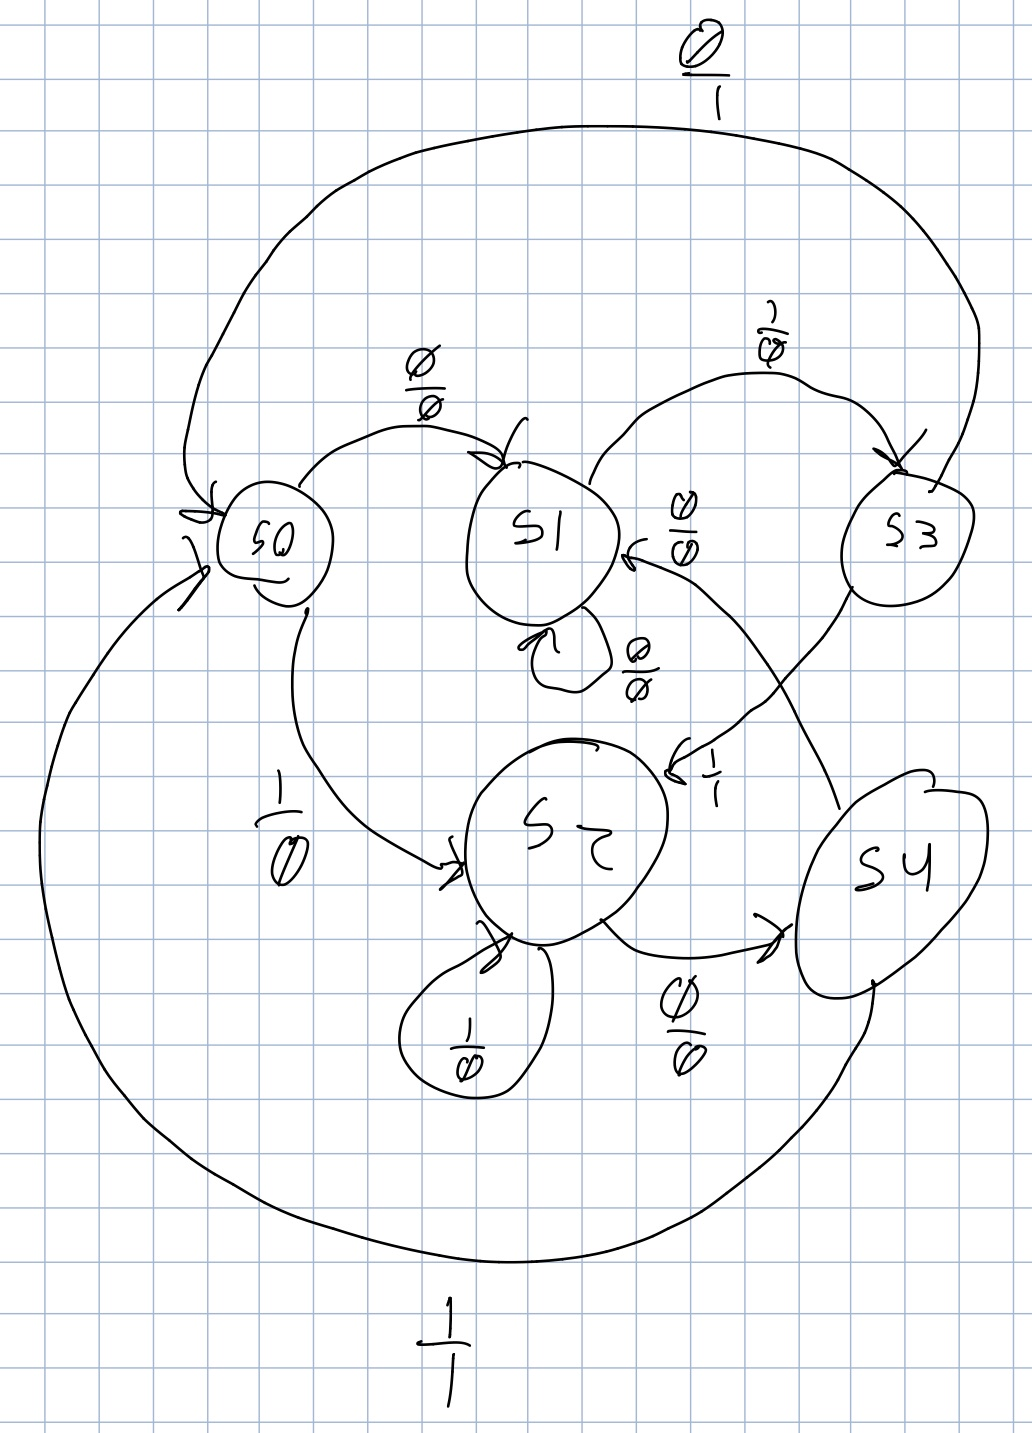
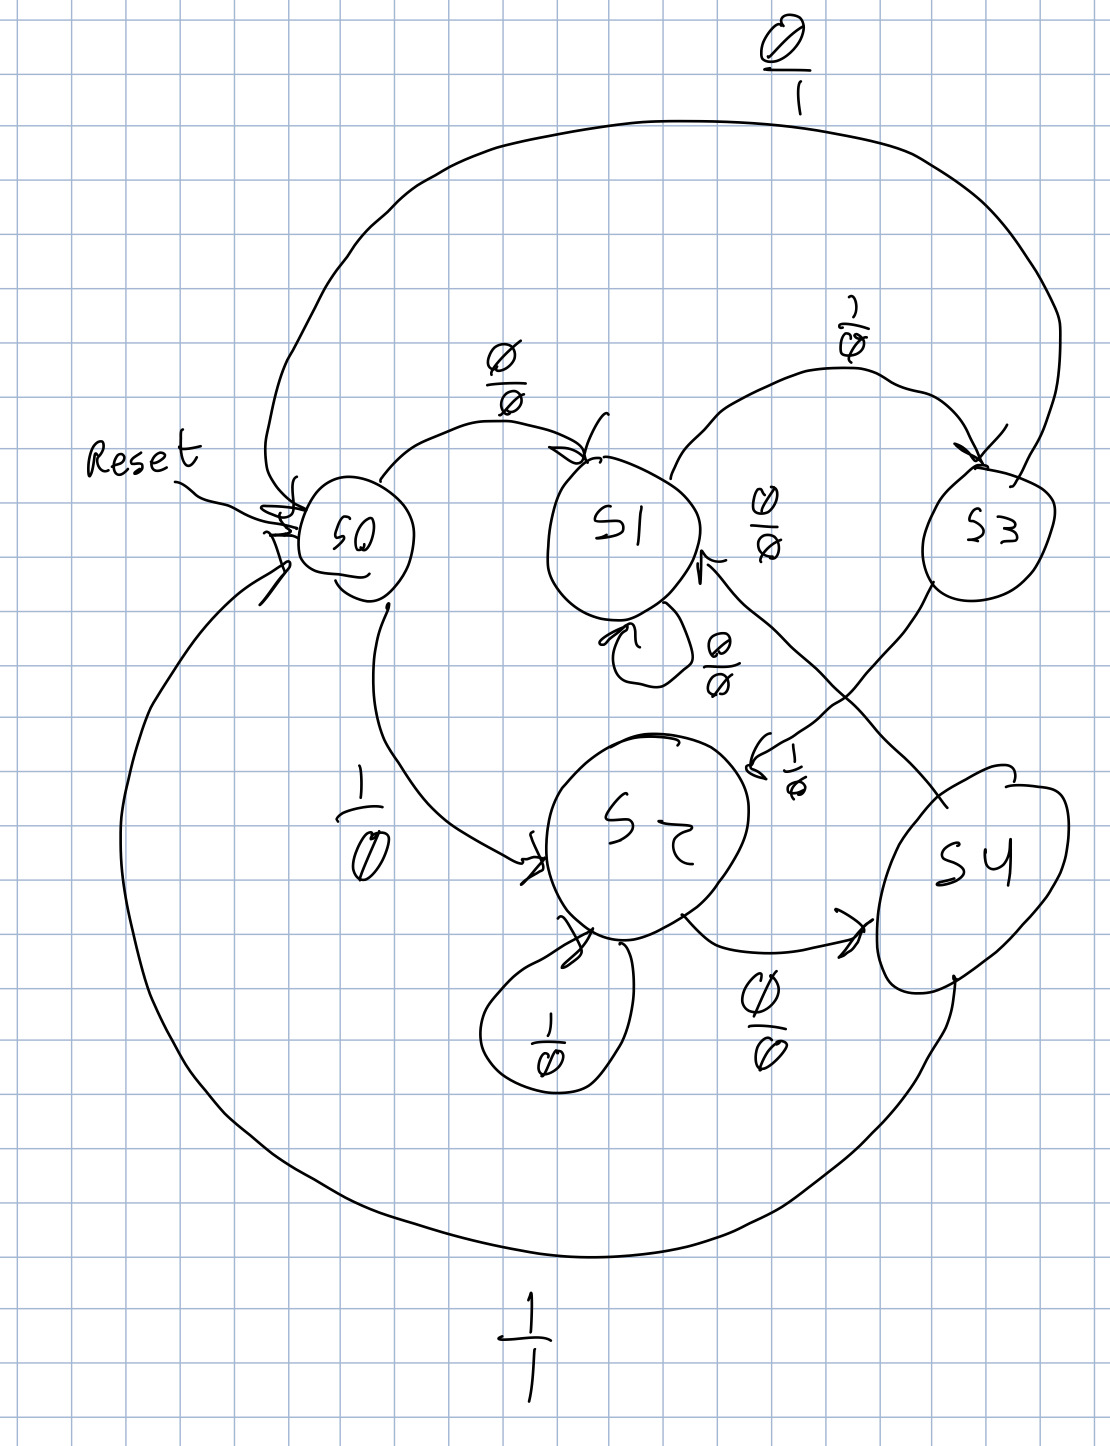
Update Lab6 Report

Changed region(s): [[0.0, 0.0, 1.0, 1.0]]

diff --git a/Lab6/LabReport/Lab6Report.tex b/Lab6/LabReport/Lab6Report.tex
@@ -51,7 +51,7 @@ State Machine: A device that can be in one of a set number of stable conditions 
 Our first task in the lab was not to implement a state machine directly. Rather, the first task was to implement a clock divider that will slow down the frequency of the clock to a speed that a human can work with. In order to implement and test our sequence detectors, we will need time to provide the inputs between each clock cycle. The Basys3 board has a 100 MHz clock, and our task for this lab was to slow it down as low as 1 Hz.
 
 \subsubsection{Design Solution}
-In order to reduce the clock speed from 100 MHz, or 100,000,000 Hz, to approximately 1 Hz, we had to derive the approximate number of clock cycles it will take, and identify the number of bits used to represent that value. Equation ~\ref{eqn:decimal_to_binary} shows the conversion to a 27 bit binary number. Once we knew that the number was 27 bits, we plugged 27 into the provided code. The port assignments used for the clock divider are summarized in Table ~\ref{tab:clockDividerPorts}.
+In order to reduce the clock speed from 100 MHz, or 100,000,000 Hz, to approximately 1 Hz, we had to derive the approximate number of clock cycles it will take, and identify the number of bits used to represent that value. Equation ~\ref{eqn:decimal_to_binary} shows the conversion to a 27 bit binary number. Once we knew that the number was 27 bits, we plugged 27 into the provided code. The port assignments used for the clock divider are summarized in Table ~\ref{tab:clockDivider_input_Ports}.
 
 \begin{equation}
 100 000 000d = 101111101011110000100000000b
@@ -63,14 +63,24 @@ In order to reduce the clock speed from 100 MHz, or 100,000,000 Hz, to approxima
 \begin{tabular}{| l | l | l |}
 	\hline
 	Bit & Label & Port \\ \hline
-	clk & Clock & W5 \\ \hline
-	starttimer & Switch 0 & V17 \\ \hline
 	FastClock & LED 0 & U16 \\ \hline
 	MediumClock & LED 1 & E19 \\ \hline
 	SlowClock & LED 2 & U19 \\ \hline
 	led0 & LED 15 & L1 \\ \hline
 \end{tabular}
-\caption{\label{tab:clockDividerPorts}Port assignments for Clock Divider.}
+\caption{\label{tab:clockDivider_input_Ports}Input port assignments for Clock Divider.}
+\end{center}
+\end{table}
+
+\begin{table}[H]
+\begin{center}
+\begin{tabular}{| l | l | l |}
+	\hline
+	Bit & Label & Port \\ \hline
+	clk & Clock & W5 \\ \hline
+	starttimer & Switch 0 & V17 \\ \hline
+\end{tabular}
+\caption{\label{tab:clockDivider_output_Ports}Output port assignments for Clock Divider.}
 \end{center}
 \end{table}
 
@@ -83,11 +93,11 @@ The clock divider successfully slowed the clock signal from 100 MHz to 1 Hz, or 
 For Problem 2, we had to utilize our clock divider implemented in Problem 1 as we design and test a Moore State Machine. A Moore State Machine is one who's output depends only on the current state, not on the input. The inputs can be used to progress a Moore State Machine through its given states, but its output does not care what the input is. 
 
 \subsubsection{Design Solution}
-For our design, we had to implement a 10-state Moore Machine that would output '1' or HIGH at 2 states of our choice. For the purposed of this experiment, we selected state 4 and state 8. The state diagram is shown in Figure ~\ref{fig:moore_state_diagram}. Basically, this machine should progress through the states every clock cycle as long as the enable bit is '1' or HIGH. When it reaches state 9, it should return to state 0. The ports for this design are summarized in ~\ref{tab:moore_state_ports}.
+For our design, we had to implement a 10-state Moore Machine that would output '1' or HIGH at 2 states of our choice. For the purposed of this experiment, we selected state 4 and state 8. The state diagram is shown in Figure ~\ref{fig:moore_state_diagram}. Basically, this machine should progress through the states every clock cycle as long as the enable bit is '1' or HIGH. When it reaches state 9, it should return to state 0. The ports for this design are summarized in Tables ~\ref{tab:moore_input_ports} and ~\ref{tab:moore_output_ports}.
 
 \begin{center}
 \begin{figure}
-	\includegraphics[width=\textwidth]{images/img1.png}
+	\includegraphics[width=\textwidth]{images/img1.jpg}
 	\caption{\label{fig:moore_state_diagram}Moore State Diagram showing output at states 4 and 8.}
 \end{figure}
 \end{center}
@@ -100,6 +110,15 @@ For our design, we had to implement a 10-state Moore Machine that would output '
 	clk & Clock & W5 \\ \hline
 	enable & Switch 0 & V17 \\ \hline
 	input & Switch 1 & U18 \\ \hline
+\end{tabular}
+\caption{\label{tab:moore_input_ports}Input port assignments for the Moore State Machine.}
+\end{center}
+\end{table}
+
+\begin{table}[H]
+\begin{center}
+\begin{tabular}{| l | l | l |}
+	\hline
 	led0 & LED 15 & L1 \\ \hline
 	state0 & LED 0 & U16 \\ \hline
 	state1 & LED 1 & E19 \\ \hline
@@ -119,7 +138,7 @@ For our design, we had to implement a 10-state Moore Machine that would output '
 	output5 & Segment F & V5 \\ \hline
 	output6 & Segment G & U7 \\ \hline
 \end{tabular}
-\caption{\label{tab:moore_state_ports}Port assignments for the Moore State Machine.}
+\caption{\label{tab:moore_output_ports}Output port assignments for the Moore State Machine.}
 \end{center}
 \end{table}
 
@@ -132,7 +151,7 @@ The state machine successfully progressed through the states and output '1' in s
 Problem 3 will use the clock divider to test a Mealy State Machine acting as a sequence detector. A Mealy State Machine provides output depending on its current state and its input. This generally lowers the amount of states required to implement a state machine. This state machine should output '1' or HIGH when either "101" or "010" is detected by the input.
 
 \subsubsection{Design Solution}
-We implemented this Mealy State Machine without overlap to detect the sequences "101" or "010". Basically, without overlap means that after detecting a sequence, the state machine returns to the original state and starts over. Therefore, if the input was "01010", the first "010" would be detected, but "10" would not trigger an output becuase the sequence has started over. The state diagram is shown in Figure ~\ref{fig:mealy_machine}. Port assignments for this design are shown in ~\ref{tab:mealy_state_ports}.
+We implemented this Mealy State Machine without overlap to detect the sequences "101" or "010". Basically, without overlap means that after detecting a sequence, the state machine returns to the original state and starts over. Therefore, if the input was "01010", the first "010" would be detected, but "10" would not trigger an output becuase the sequence has started over. The state diagram is shown in Figure ~\ref{fig:mealy_machine}. Port assignments for this design are shown in Tables ~\ref{tab:mealy_input_ports} and ~\ref{tab:_mealy_output_ports}.
 
 \begin{center}
 \begin{figure}
@@ -147,9 +166,27 @@ We implemented this Mealy State Machine without overlap to detect the sequences 
 	\hline
 	Bit & Label & Port \\ \hline
 	clk & Clock & W5 \\ \hline
+	clockreset & Button L & W19 \\ \hline
+	reset & Button C & U18 \\ \hline
 	enable & Switch 0 & V17 \\ \hline
 	input & Switch 1 & U18 \\ \hline
 	led0 & LED 15 & L1 \\ \hline
+\end{tabular}
+\caption{\label{tab:mealy_input_ports}Input port assignments for the Mealy State Machine.}
+\end{center}
+\end{table}
+
+\begin{table}[H]
+\begin{center}
+\begin{tabular}{| l | l | l |}
+	\hline
+	Bit & Label & Port \\ \hline
+	led0 & LED 15 & L1 \\ \hline
+	state0 & LED 0 & U16 \\ \hline
+	state1 & LED 1 & E19 \\ \hline
+ 	state2 & LED 2 & U19 \\ \hline
+	state3 & LED 3 & V19 \\ \hline
+	state4 & LED 4 & W18 \\ \hline
 	output0 & Segment A & W7 \\ \hline
 	output1 & Segment B & W6 \\ \hline
 	output2 & Segment C & U8 \\ \hline
@@ -158,7 +195,7 @@ We implemented this Mealy State Machine without overlap to detect the sequences 
 	output5 & Segment F & V5 \\ \hline
 	output6 & Segment G & U7 \\ \hline
 \end{tabular}
-\caption{\label{tab:mealy_state_ports}Port assignments for the Mealy State Machine.}
+\caption{\label{tab:mealy_output_ports}Output port assignments for the Mealy State Machine.}
 \end{center}
 \end{table}
 
@@ -219,6 +256,12 @@ end clockdivider_arch;
 \end{lstlisting}
 
 \section{Problem 1 Constraints File}
+\begin{center}
+\begin{figure}
+	\includegraphics[scale=1]{./images/Lab6Part1Const.png}
+	\caption{\label{fig:Prob1Const}Constraints file for Problem 1.}
+\end{figure}
+\end{center}
 
 \section{Problem 2 VHDL Code}
 \begin{lstlisting}[language=VHDL]
@@ -230,6 +273,8 @@ entity moore_machine is
     Port ( input : in STD_LOGIC;
            clk : in STD_LOGIC;
            enable : in STD_LOGIC;
+           timer_restart : in STD_LOGIC;
+           reset : in STD_LOGIC;
            led0 : out STD_LOGIC;
            state : out STD_LOGIC_VECTOR(9 downto 0);
            output : out STD_LOGIC_VECTOR(6 downto 0));
@@ -247,38 +292,173 @@ signal mediumClock : STD_LOGIC;
 signal fastClock : STD_LOGIC;
 signal current_state : STD_LOGIC_VECTOR(3 downto 0) := "0000";
 
-begin
-    
-    clock : Clockdivider port map(clk, enable, slowClock, mediumClock, fastClock, led0);
-    process(clk, enable)
+begin  
+    clock : Clockdivider port map(clk, timer_restart, fastClock, mediumClock, 
+    		slowClock, led0);
+    process(slowClock, enable)
     begin
-        if(clk'event and (clk = '1') and (enable = '1')) then
-            if(current_state = "1001") then
-                current_state <= "0000";
-            else
-                current_state <= std_logic_vector( unsigned(current_state) + 1 );
-            end if;
-            if((current_state = "0100") or (current_state = "1000")) then
-                output <= "1001111";
-            else
-                output <= "1111111";
+        if(reset = '1') then current_state <= "0000";
+        end if;
+        if(slowClock'event and (slowClock = '1')) then
+            if(enable = '1') then
+                if(current_state = "1001") then
+                    current_state <= "0000";
+                else
+                    current_state <= std_logic_vector
+                    		( unsigned(current_state) + 1 );
+                end if;
+            else current_state <= "0000";
             end if;
         end if;
-    end process;    
-            
-
+    end process;
+    process(current_state)
+    begin
+        if((current_state = "0100") or (current_state = "1000")) then
+            output <= "1001111";
+        else
+            output <= "1000000";
+        end if;
+        case current_state is
+            when "0000" => state <= "0000000001";
+            when "0001" => state <= "0000000010";
+            when "0010" => state <= "0000000100";
+            when "0011" => state <= "0000001000";
+            when "0100" => state <= "0000010000";
+            when "0101" => state <= "0000100000";
+            when "0110" => state <= "0001000000";
+            when "0111" => state <= "0010000000";
+            when "1000" => state <= "0100000000";
+            when "1001" => state <= "1000000000";
+            when others => state <= "0000000000";
+        end case;
+    end process;
 end moore_arch;
 
 \end{lstlisting}
 
 \section{Problem 2 Constraints File}
+\begin{center}
+\begin{figure}
+	\includegraphics[scale=1]{./images/Lab6Part2Const.png}
+	\caption{\label{fig:Prob1Const}Constraints file for Problem 2.}
+\end{figure}
+\end{center}
 
 \section{Problem 3 VHDL Code}
 \begin{lstlisting}[language=VHDL]
+library IEEE;
+use IEEE.STD_LOGIC_1164.ALL;
 
+entity mealy is
+    Port ( clk : in STD_LOGIC;
+           enable : in STD_LOGIC;
+           clock_reset : in STD_LOGIC;
+           reset : in STD_LOGIC;
+           input : in STD_LOGIC;
+           led0 : out STD_LOGIC;
+           output : out STD_LOGIC_VECTOR(6 downto 0);
+           state : out STD_LOGIC_VECTOR(4 downto 0));
+end mealy;
+
+architecture Behavioral of mealy is
+component Clockdivider is
+    Port ( clk : in STD_LOGIC;
+           start_timer : in STD_LOGIC;
+           FastClock,MediumClock,SlowClock,led0 : out STD_LOGIC);
+end component Clockdivider;
+
+signal slowClock : STD_LOGIC;
+signal mediumClock : STD_LOGIC;
+signal fastClock : STD_LOGIC;
+signal current_state : STD_LOGIC_VECTOR(2 downto 0) := "000";
+signal output_signal : STD_LOGIC := '0'; 
+
+begin
+    clock : Clockdivider port map(clk, clock_reset, fastClock, mediumClock, 
+    		slowClock, led0);
+    process(slowClock, enable)
+    begin
+        if(reset = '1') then current_state <= "000";
+        end if;
+        if(slowClock'event and (slowClock = '1')) then
+            if(enable = '1') then
+                case current_state is
+                    when "000" =>
+                        if(input = '1') then 
+                            current_state <= "010";
+                            output_signal <= '0';
+                        else 
+                            current_state <= "001";
+                            output_signal <= '0';
+                        end if;
+                    when "001" =>
+                        if(input = '1') then 
+                            current_state <= "011";
+                            output_signal <= '0';
+                        else
+                            current_state <= "001";
+                            output_signal <= '0';
+                        end if;
+                    when "010" =>
+                        if(input = '1') then 
+                            current_state <= "010";
+                            output_signal <= '0';
+                        else
+                            current_state <= "100";
+                            output_signal <= '0';
+                        end if;
+                    when "011" =>
+                        if(input = '1') then 
+                            current_state <= "010";
+                            output_signal <= '0';
+                        else
+                            current_state <= "000";
+                            output_signal <= '1';
+                        end if;
+                    when others =>
+                        if(input = '1') then 
+                            current_state <= "000";
+                            output_signal <= '1';
+                        else
+                            current_state <= "001";
+                            output_signal <= '0';
+                        end if;
+                end case;
+            else
+                current_state <= "000";
+                output_signal <= '0';
+            end if;
+        end if;
+    end process;
+    process(output_signal)
+    begin
+        if(output_signal = '1') then
+            output <= "1001111";
+        else
+            output <= "0000001";
+        end if;
+    end process;
+    process(current_state)
+    begin
+        case current_state is
+            when "000" => state <= "00001";
+            when "001" => state <= "00010";
+            when "010" => state <= "00100";
+            when "011" => state <= "01000";
+            when "100" => state <= "10000";
+            when others => state <= "00000";
+        end case;
+    end process;
+end Behavioral;
 \end{lstlisting}
 
 \section{Problem 3 Constraints File}
+\begin{center}
+\begin{figure}
+	\includegraphics[scale=1]{./images/Lab6Part3Const.png}
+	\caption{\label{fig:Prob1Const}Constraints file for Problem 3.}
+\end{figure}
+\end{center}
 
 \end{appendices}
 \end{document}
